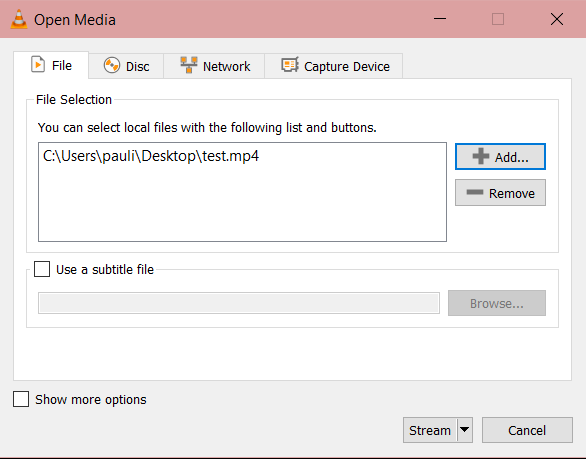
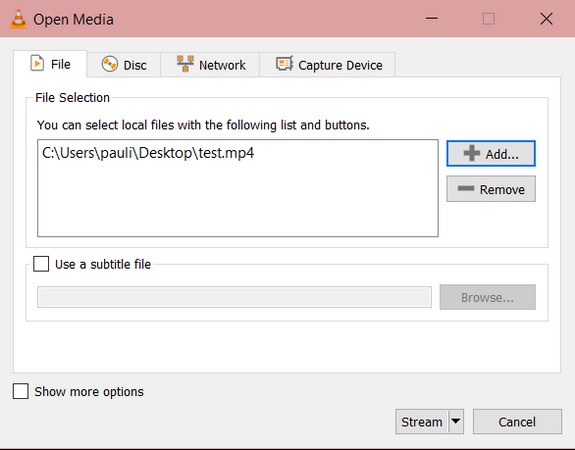
modif taille image

diff --git a/template.html b/template.html
@@ -186,26 +186,36 @@
                     Open VLC.
                     <br>
                     Select <b>Media</b> then <b>Stream</b>. This window should appear : 
+                    <br>
                     <br><img class="imgdemo" src="images/demo1.png" alt="demo">
                     <br>Select <b>+ Add</b> and select the file you want to stream. The example will be done with an MP4 file.
                     <br> Then select <b>Stream</b>. 
                     <br>
                     <br>The following window should appear:
+                    <br>
                     <br><img class="imgdemo" src="images/demo2.png" alt="demo">
                     <br>Select <b>Next</b>.
                     <br>
 
-                    <br> Then, on this window chose as <b>New destination</b> RTSP :
+                    <br> Then, on this window chose as <b>New destination</b> <i>RTSP</i> :
+                    <br>
                     <br><img class="imgdemo" src="images/demo3.png" alt="demo">
                     <br>
                     <br> You will now have to select the port and the path. 
-                    <br> You can chose the 8554 (classic port fort RTSP).
-                    <br> As path, you can add /stream as shown below :
+                    <br> You can chose the <i>8554 </i>(classic port for RTSP).
+                    <br> As path, you can add <i>/stream </i>as shown below :
+                    <br>
                     <br><img class="imgdemo" src="images/demo4.png" alt="demo">
                     <br>
                     <br>Then chose the transcoding option. 
-                    <br>Here for MP4, this is the H.264 codec for the video part and MP3 for the audio part.
+                    <br>Here for MP4, select the <i>H.264</i> codec for the video part and <i>MP3</i> for the audio part :
+                    <br>
                     <br><img class="imgdemo" src="images/demo5.png" alt="demo">
+                    <br>
+                    <br> If you want to stream undefinitely, add the command <i>--loop</i> at the end of the command.
+                    <br> Select <b>Next</b>. 
+                    <br>
+                    <br><img class="imgdemo" src="images/demo51.png" alt="demo">
                     <br>
                     <br>Now you stream is available at : <i>rtsp://localhost:8554/stream</i>
                     <br>
@@ -213,9 +223,10 @@
                     <h6 class="card-title">2. Watch your video in RTSP (client) </h6>
                     Open another VLC client.
                     <br>
-                    To read your rtsp stream : Open network stream.
+                    To read your rtsp stream select <b>Open network stream</b>.
                     <br>
-                    Select the path  rtsp://localhost:8554/stream.
+                    Enter the path decided before  <i>rtsp://localhost:8554/stream.</i>
+                    <br>
                     <br>
                     <img class="imgdemo" src="images/demo6.png" alt="demo">
                     </p>
@@ -236,7 +247,7 @@
                     <h6 class="card-title">2. Watch your video in RTSP (client) </h6>
                     4 - In another terminal, read the stream on ffplay with this command : <br>
                     <code>
-                    ffplay -v debug -ii rtsp://127.0.0.1:8554/stream
+                    ffplay -i rtsp://127.0.0.1:8554/stream
                   </code>
                     </p>
             </div>
